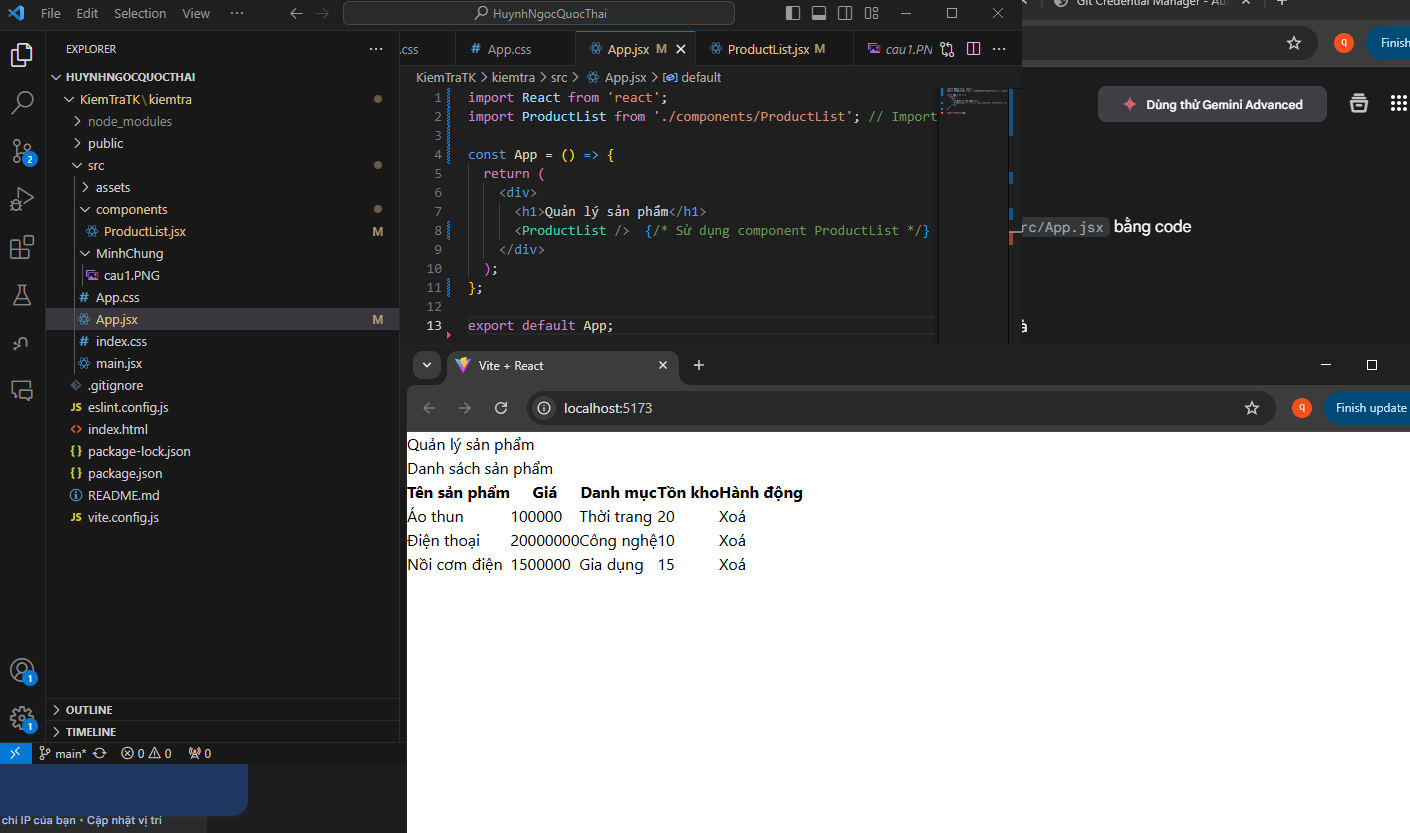
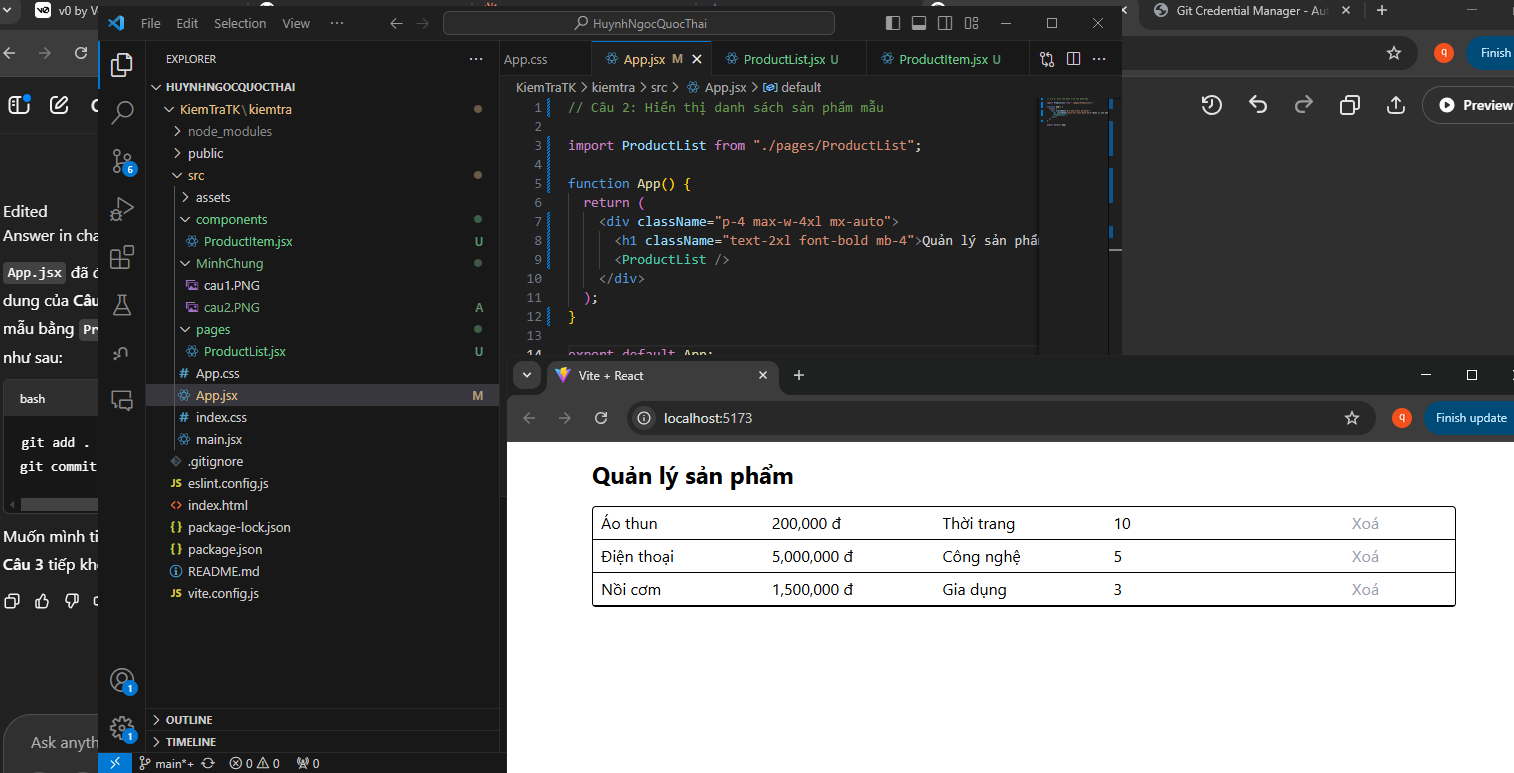
cau3.xoa

diff --git a/src/pages/ProductManager.jsx b/src/pages/ProductManager.jsx
@@ -1,0 +1,80 @@
+import { useState } from "react";
+import ProductItem from "../components/ProductItem";
+
+export default function ProductManager() {
+  const [products, setProducts] = useState([
+    { id: 1, name: "Áo thun", price: 200000, category: "Thời trang", stock: 10 },
+    { id: 2, name: "Điện thoại", price: 5000000, category: "Công nghệ", stock: 5 },
+    { id: 3, name: "Nồi cơm", price: 1500000, category: "Gia dụng", stock: 3 },
+  ]);
+
+  const [newProduct, setNewProduct] = useState({
+    name: "",
+    price: "",
+    category: "Thời trang",
+    stock: "",
+  });
+
+  const handleAdd = () => {
+    const { name, price, category, stock } = newProduct;
+    if (!name || !price || !stock) return;
+    setProducts([
+      ...products,
+      {
+        id: Date.now(),
+        name,
+        price: Number(price),
+        category,
+        stock: Number(stock),
+      },
+    ]);
+    setNewProduct({ name: "", price: "", category: "Thời trang", stock: "" });
+  };
+
+  return (
+    <div>
+      {/* Form thêm sản phẩm mới */}
+      <div className="grid grid-cols-5 gap-2 mb-4">
+        <input
+          className="border p-2"
+          placeholder="Tên"
+          value={newProduct.name}
+          onChange={(e) => setNewProduct({ ...newProduct, name: e.target.value })}
+        />
+        <input
+          className="border p-2"
+          placeholder="Giá"
+          type="number"
+          value={newProduct.price}
+          onChange={(e) => setNewProduct({ ...newProduct, price: e.target.value })}
+        />
+        <select
+          className="border p-2"
+          value={newProduct.category}
+          onChange={(e) => setNewProduct({ ...newProduct, category: e.target.value })}
+        >
+          <option value="Thời trang">Thời trang</option>
+          <option value="Công nghệ">Công nghệ</option>
+          <option value="Gia dụng">Gia dụng</option>
+        </select>
+        <input
+          className="border p-2"
+          placeholder="Tồn kho"
+          type="number"
+          value={newProduct.stock}
+          onChange={(e) => setNewProduct({ ...newProduct, stock: e.target.value })}
+        />
+        <button className="bg-blue-500 text-white p-2" onClick={handleAdd}>
+          Thêm sản phẩm
+        </button>
+      </div>
+
+      {/* Danh sách sản phẩm */}
+      <div className="border rounded">
+        {products.map((product) => (
+          <ProductItem key={product.id} product={product} />
+        ))}
+      </div>
+    </div>
+  );
+}

diff --git a/src/components/ProductForm.jsx b/src/components/ProductForm.jsx
@@ -1,0 +1,44 @@
+import React, { useState } from 'react';
+
+const ProductForm = ({ onAdd }) => {
+  const [name, setName] = useState('');
+  const [price, setPrice] = useState('');
+  const [category, setCategory] = useState('');
+  const [stock, setStock] = useState('');
+
+  const handleSubmit = (e) => {
+    e.preventDefault();
+    if (name && price && category && stock) {
+      onAdd({ name, price: parseFloat(price), category, stock: parseInt(stock) });
+      setName('');
+      setPrice('');
+      setCategory('');
+      setStock('');
+    }
+  };
+
+  return (
+    <form onSubmit={handleSubmit}>
+      <h2>Thêm sản phẩm mới</h2>
+      <div>
+        <label>Tên sản phẩm:</label>
+        <input type="text" value={name} onChange={(e) => setName(e.target.value)} required />
+      </div>
+      <div>
+        <label>Giá:</label>
+        <input type="number" value={price} onChange={(e) => setPrice(e.target.value)} required />
+      </div>
+      <div>
+        <label>Danh mục:</label>
+        <input type="text" value={category} onChange={(e) => setCategory(e.target.value)} required />
+      </div>
+      <div>
+        <label>Tồn kho:</label>
+        <input type="number" value={stock} onChange={(e) => setStock(e.target.value)} required />
+      </div>
+      <button type="submit">Thêm sản phẩm</button>
+    </form>
+  );
+};
+
+export default ProductForm;

diff --git a/src/components/ProductList.jsx b/src/components/ProductList.jsx
@@ -1,13 +1,6 @@
 import React from 'react';
 
-const ProductList = () => {
-  // Dữ liệu sản phẩm mẫu (có thể thay thế bằng dữ liệu từ API hoặc state sau này)
-  const products = [
-    { id: 1, name: 'Áo thun', price: 100000, category: 'Thời trang', stock: 20 },
-    { id: 2, name: 'Điện thoại', price: 20000000, category: 'Công nghệ', stock: 10 },
-    { id: 3, name: 'Nồi cơm điện', price: 1500000, category: 'Gia dụng', stock: 15 },
-  ];
-
+const ProductList = ({ products, onDelete }) => { // Nhận onDelete từ props
   return (
     <div>
       <h2>Danh sách sản phẩm</h2>
@@ -18,7 +11,7 @@ const ProductList = () => {
             <th>Giá</th>
             <th>Danh mục</th>
             <th>Tồn kho</th>
-            <th>Hành động</th> {/* Cột cho nút Xoá */}
+            <th>Hành động</th>
           </tr>
         </thead>
         <tbody>
@@ -29,7 +22,7 @@ const ProductList = () => {
               <td>{product.category}</td>
               <td>{product.stock}</td>
               <td>
-                <button>Xoá</button>  {/* Nút Xoá (chưa có chức năng) */}
+                <button onClick={() => onDelete(product.id)}>Xoá</button>
               </td>
             </tr>
           ))}

diff --git a/src/App.jsx b/src/App.jsx
@@ -1,11 +1,27 @@
-import React from 'react';
-import ProductList from './components/ProductList'; // Import component ProductList
+import React, { useState } from 'react';
+import ProductList from './components/ProductList';
+import ProductForm from './components/ProductForm';
 
 const App = () => {
+  const [products, setProducts] = useState([
+    { id: 1, name: 'Áo thun', price: 100000, category: 'Thời trang', stock: 20 },
+    { id: 2, name: 'Điện thoại', price: 20000000, category: 'Công nghệ', stock: 10 },
+    { id: 3, name: 'Nồi cơm điện', price: 1500000, category: 'Gia dụng', stock: 15 },
+  ]);
+
+  const addProduct = (newProduct) => {
+    setProducts([...products, { ...newProduct, id: Date.now() }]);
+  };
+
+  const deleteProduct = (id) => {
+    setProducts(products.filter(product => product.id !== id));
+  };
+
   return (
     <div>
       <h1>Quản lý sản phẩm</h1>
-      <ProductList />  {/* Sử dụng component ProductList */}
+      <ProductForm onAdd={addProduct} />
+      <ProductList products={products} onDelete={deleteProduct} />
     </div>
   );
 };

diff --git a/src/components/ProductItem.jsx b/src/components/ProductItem.jsx
@@ -1,0 +1,12 @@
+export default function ProductItem({ product }) {
+    return (
+      <div className="grid grid-cols-5 gap-2 items-center border-b px-2 py-1">
+        <div>{product.name}</div>
+        <div>{product.price.toLocaleString()} đ</div>
+        <div>{product.category}</div>
+        <div>{product.stock}</div>
+        <button className="text-gray-400 cursor-not-allowed">Xoá</button>
+      </div>
+    );
+  }
+  
